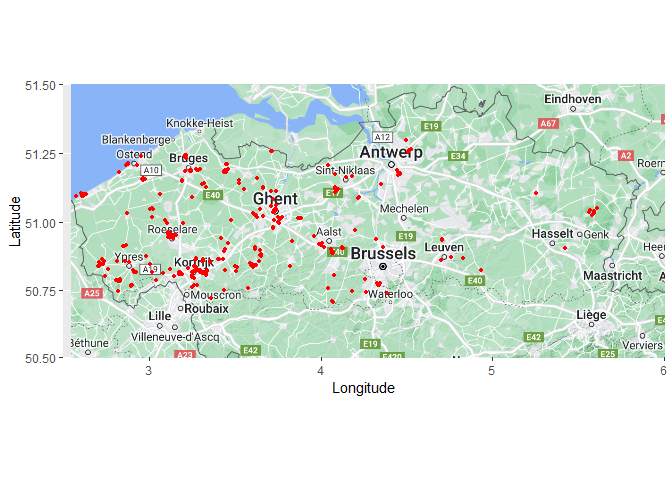
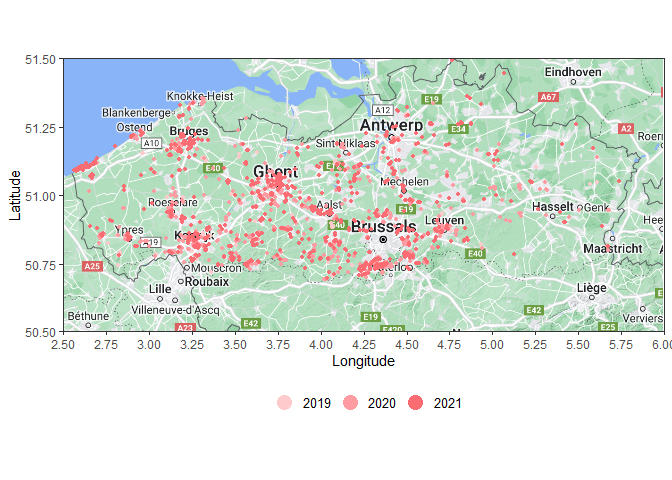
color set by year + aesthetic update

diff --git a/README.md b/README.md
@@ -21,28 +21,28 @@ Global Biodiversity Information Facility (GBIF).
 
 ``` r
 library(MyPackage)
-data2017_2019 <- vespa_data(2017,2019)
-data2017_2019
-#> # A tibble: 678 × 113
+data2019_2021 <- vespa_data(2019,2021)
+data2019_2021
+#> # A tibble: 2,152 × 118
 #>    key        scientificName  decimalLatitude decimalLongitude issues datasetKey
 #>    <chr>      <chr>                     <dbl>            <dbl> <chr>  <chr>     
-#>  1 2456495590 Vespa velutina…            51.2             2.96 cdc,c… 50c9509d-…
-#>  2 2239541852 Vespa velutina…            51.2             2.96 osiic  9a0b66df-…
-#>  3 2244281495 Vespa velutina…            51.0             3.11 cdc,c… 50c9509d-…
-#>  4 2244281625 Vespa velutina…            50.8             3.04 cdc    50c9509d-…
-#>  5 2269245719 Vespa velutina…            51.0             3.12 cdc    50c9509d-…
-#>  6 2366150820 Vespa velutina…            51.1             2.62 cdc,c… 50c9509d-…
-#>  7 2423221468 Vespa velutina…            51.2             3.53 cdc,c… 50c9509d-…
-#>  8 2239541773 Vespa velutina…            51.0             3.12 osiic  9a0b66df-…
-#>  9 2269431918 Vespa velutina…            50.8             3.04 osiic  9a0b66df-…
-#> 10 2239541849 Vespa velutina…            51.1             3.52 osiic  9a0b66df-…
-#> # ℹ 668 more rows
-#> # ℹ 107 more variables: publishingOrgKey <chr>, installationKey <chr>,
+#>  1 3031984510 Vespa velutina…            51.1             4.39 cdc,c… 50c9509d-…
+#>  2 3044179393 Vespa velutina…            51.1             4.39 osiic  9a0b66df-…
+#>  3 3044176410 Vespa velutina…            51.1             4.39 osiic  9a0b66df-…
+#>  4 3044182405 Vespa velutina…            51.1             4.39 osiic  9a0b66df-…
+#>  5 3044177373 Vespa velutina…            51.1             4.39 osiic  9a0b66df-…
+#>  6 3044172499 Vespa velutina…            51.1             4.39 osiic  9a0b66df-…
+#>  7 3044176590 Vespa velutina…            50.9             4.33 osiic  9a0b66df-…
+#>  8 3039225614 Vespa velutina…            50.8             3.29 cdc,c… 50c9509d-…
+#>  9 3039360956 Vespa velutina…            50.8             4.26 cdc,c… 50c9509d-…
+#> 10 3044571232 Vespa velutina…            51.1             4.10 cdc,c… 50c9509d-…
+#> # ℹ 2,142 more rows
+#> # ℹ 112 more variables: publishingOrgKey <chr>, installationKey <chr>,
 #> #   hostingOrganizationKey <chr>, publishingCountry <chr>, protocol <chr>,
 #> #   lastCrawled <chr>, lastParsed <chr>, crawlId <int>, basisOfRecord <chr>,
-#> #   occurrenceStatus <chr>, taxonKey <int>, kingdomKey <int>, phylumKey <int>,
-#> #   classKey <int>, orderKey <int>, familyKey <int>, genusKey <int>,
-#> #   speciesKey <int>, acceptedTaxonKey <int>, acceptedScientificName <chr>, …
+#> #   occurrenceStatus <chr>, sex <chr>, lifeStage <chr>, taxonKey <int>,
+#> #   kingdomKey <int>, phylumKey <int>, classKey <int>, orderKey <int>,
+#> #   familyKey <int>, genusKey <int>, speciesKey <int>, …
 ```
 
 <img src="man/figures/README-bar-chart-1.png" width="100%" />
